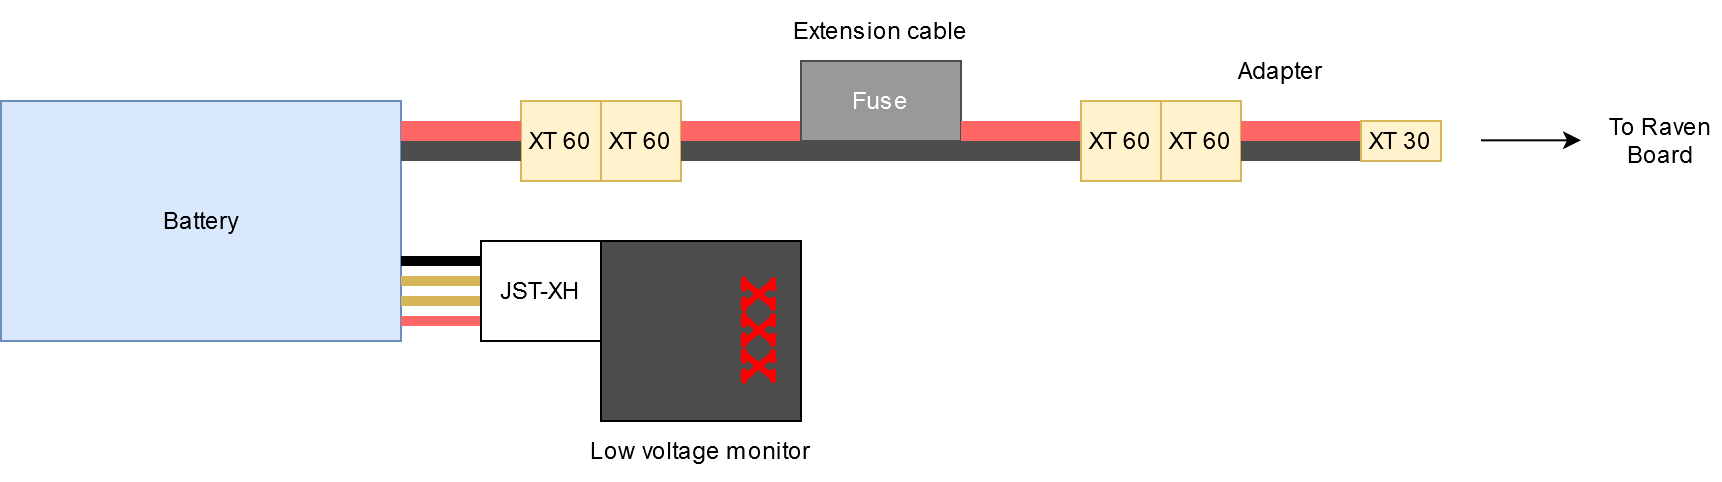
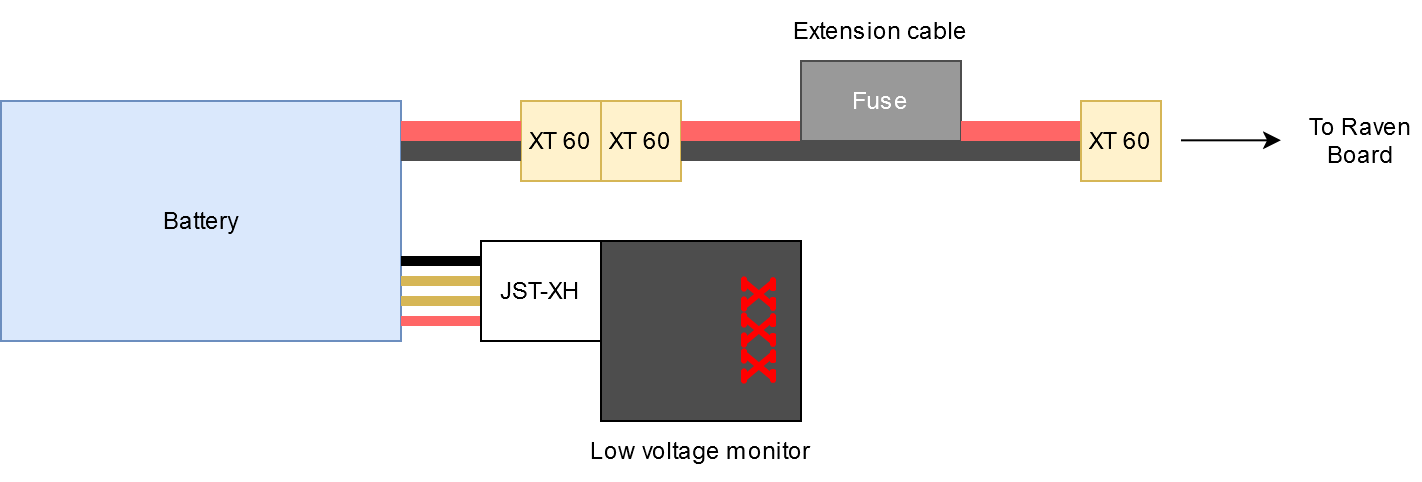
Move the XT adapter to be part of the Raven board instead of battery

Changed region(s): [[0.2166, 0.1245, 1.0, 0.9647], [0.4641, 0.0311, 0.6807, 0.0934], [0.0928, 0.4357, 0.1857, 0.4979]]

diff --git a/README.md b/README.md
@@ -107,6 +107,14 @@ Raven has 5 switches that gets connected to ground when closed. Each switch port
 ### qwiic connection
 Raven also have 2 qwiic ports to support qwiic devices such as another inertial measurement sensor, color sensor, GPS, and even an LCD. Behind the connectors are connection to the I2C ports of the Raspberry Pi. The left connector is for I2C port 1 and right connector is for I2C port 2. More information about qwiic connection system can be found here: https://www.sparkfun.com/qwiic 
 
+### Battery connection
+Raven uses an XT30 connector to connect to the battery. This is the yellow connector on the right side of the board. It is smaller than the XT60 connector on the battery and requires an adapter.
+
+<p align="center">
+<img src="image/battery_adapter.png" width="50%" />
+</p>
+
+
 ## Battery
 > [!WARNING]
 > Information below are simply summary of LiPo safety notes for using the battery with the kitbot. For more details, please check LiPo safety notes.
@@ -123,13 +131,6 @@ For safety, a fused extension cable is required to be connected to the battery o
 
 <p align="center">
 <img src="image/fused_cable.jpg" width="50%" />
-</p>
-
-### XT60 to XT30 adapter
-The battery connector on the Raven board is a XT30 connector instead of the full size XT60. Therefore, an adapter is required to be connected to the fused extension cable.
-
-<p align="center">
-<img src="image/battery_adapter.png" width="50%" />
 </p>
 
 ### Low voltage monitor
